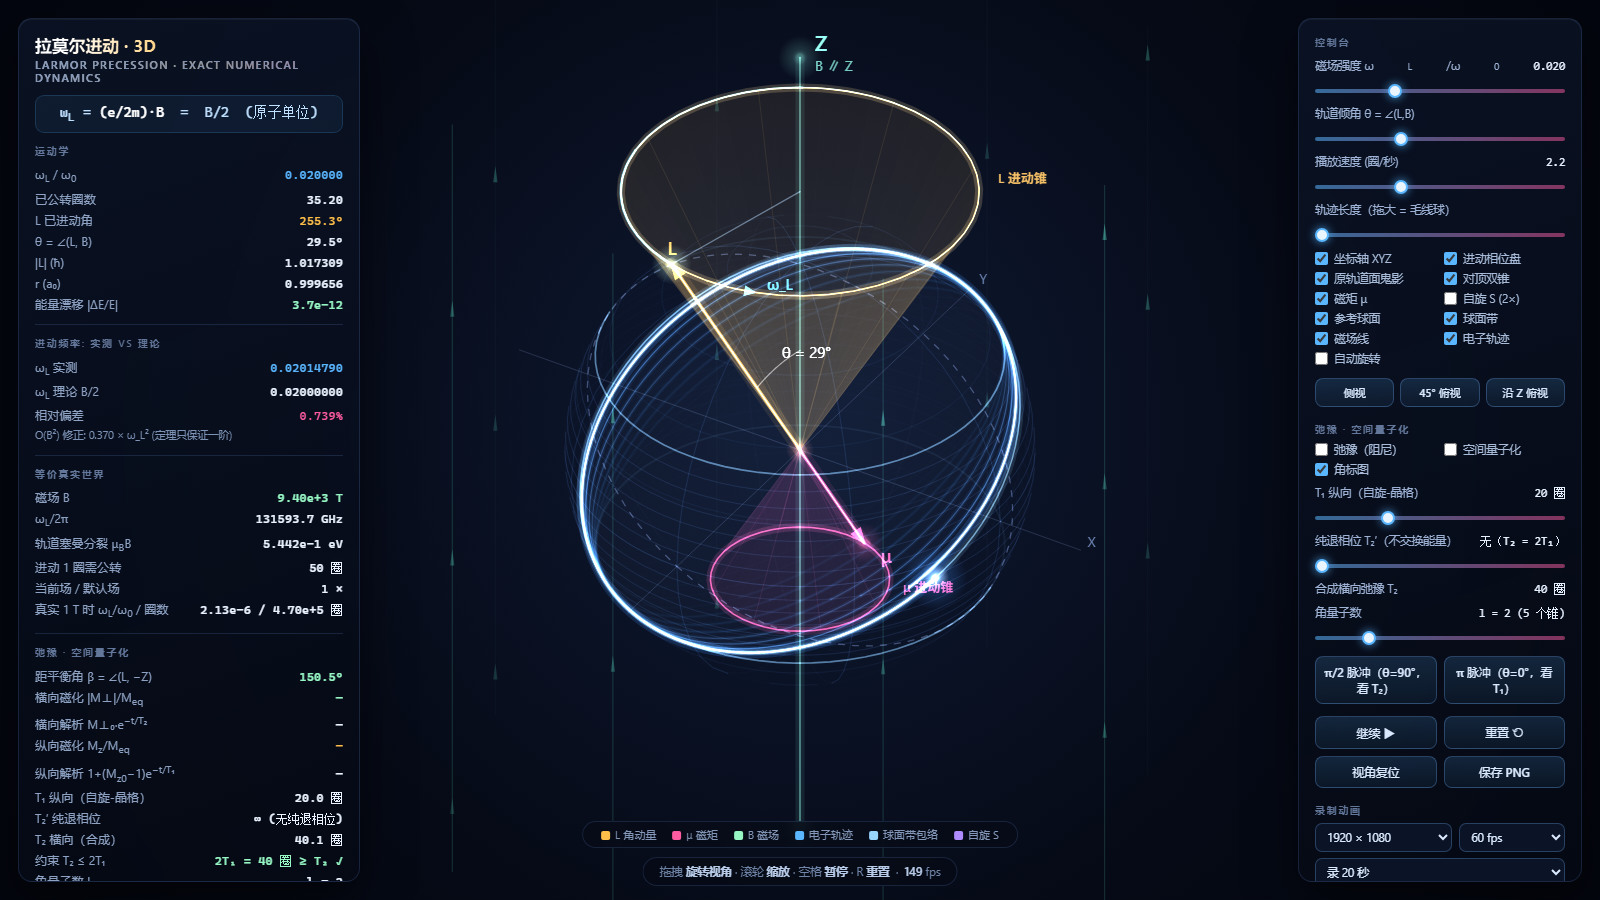
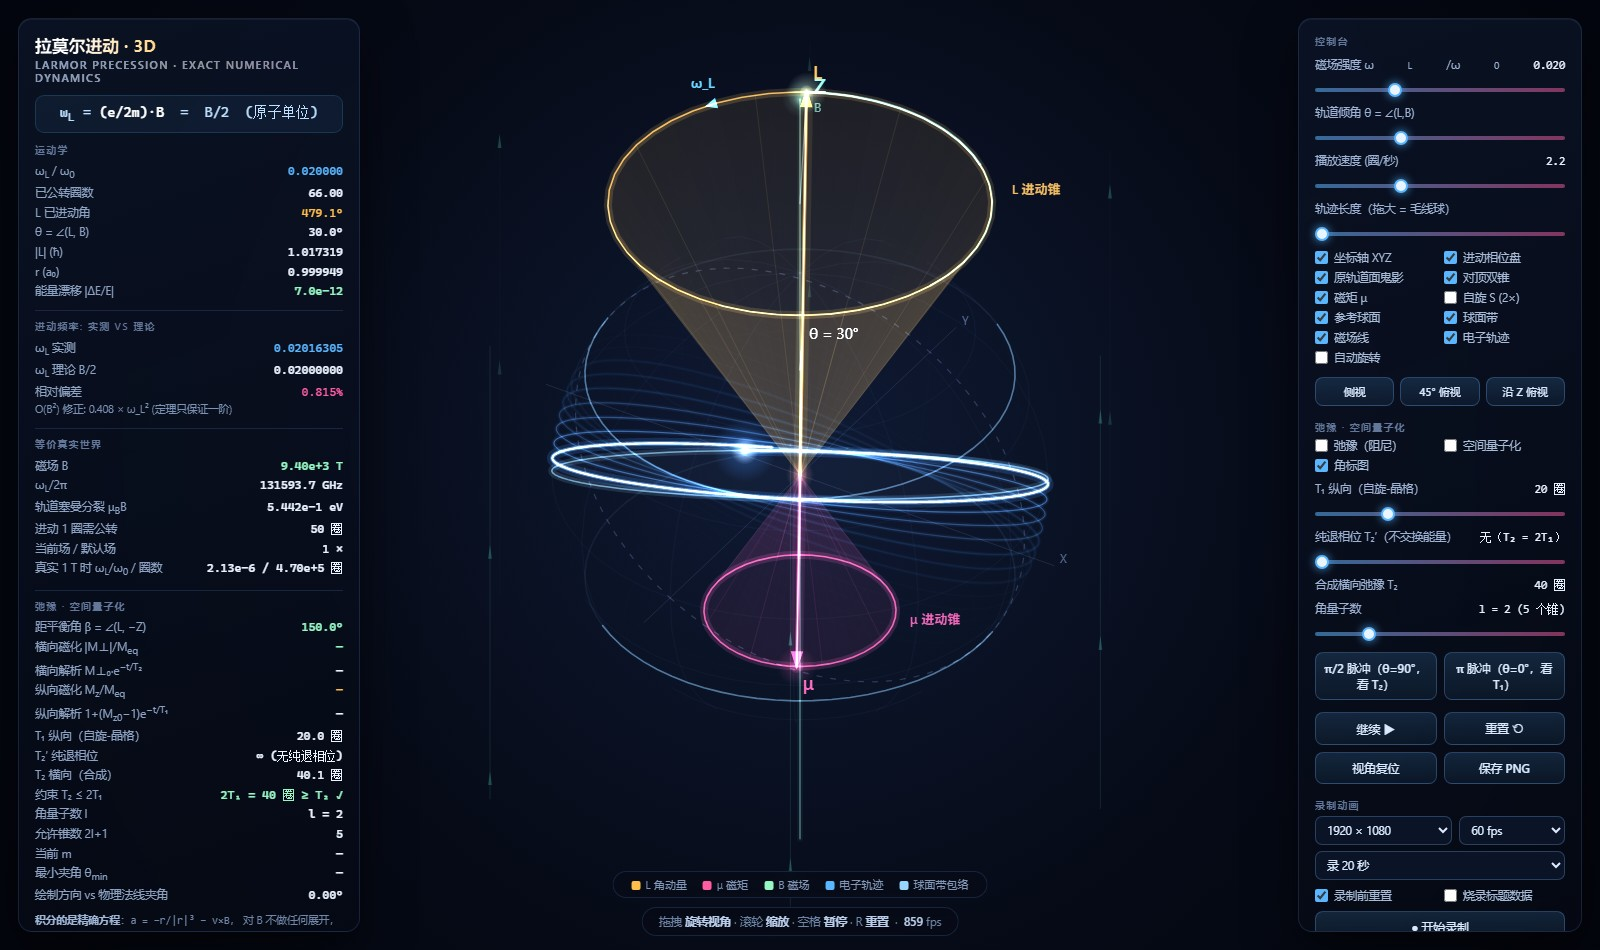
视觉减负: 去掉抢视线的重复元素
- 球面带 15 圈水平环 -> 只留上下 2 条边界环 (中间的环堆成"桶", 与轨迹抢视线)
- 平行场线收短到 ±1.12 (原来贯穿整屏、两端跑出画面像划痕), 条数 8->6, 透明度减半
- 删掉与小字 B 重复的 "B ∥ Z"
- X/Y 轴 ±1.40 -> ±1.20 并调淡
- 球面经纬线 8x9 -> 6x5, 透明度 0.105 -> 0.072
- 进动锥开启时相位盘不再画圆环 (与锥沿完全重合, 会成双环)
- ω_L 标签改沿径向外推 (原沿切向会撞上 Z 标签)
- 单个角标图移到 Z 轴左侧, 烧录模式下整体下移避开标题
- 图例只显示当前开启的图层
- HUD 行距/字号收紧
- 底栏数据项间距调整, ω_L 标签加下边界钳制

diff --git a/larmor-precession/app.js b/larmor-precession/app.js
@@ -466,59 +466,61 @@ function createApp(canvas, doc, win) {
   function drawSphereAndBand() {
     var R = 1.0, i, j, pts, ph, a;
     var grid = [];
-    /* 经线 */
-    for (j = 0; j < 8; j++) {
-      a = j * Math.PI / 4; pts = [];
-      for (i = 0; i <= 40; i++) { ph = i / 40 * TAU; pts.push([R * Math.cos(ph) * Math.cos(a), R * Math.cos(ph) * Math.sin(a), R * Math.sin(ph)]); }
+    /* 经线: 6 条足够撑出球感, 再多就只是噪点 */
+    for (j = 0; j < 6; j++) {
+      a = j * Math.PI / 6; pts = [];
+      for (i = 0; i <= 36; i++) { ph = i / 36 * TAU; pts.push([R * Math.cos(ph) * Math.cos(a), R * Math.cos(ph) * Math.sin(a), R * Math.sin(ph)]); }
       grid.push(projectPoly(pts));
     }
-    /* 纬线 */
-    for (j = -4; j <= 4; j++) {
-      var th = j * Math.PI / 10, rr = R * Math.cos(th), zz = R * Math.sin(th); pts = [];
-      for (i = 0; i <= 56; i++) { ph = i / 56 * TAU; pts.push([rr * Math.cos(ph), rr * Math.sin(ph), zz]); }
+    /* 纬线: 5 条 (含赤道), 间距 22.5° */
+    for (j = -2; j <= 2; j++) {
+      var th = j * Math.PI / 8, rr = R * Math.cos(th), zz = R * Math.sin(th); pts = [];
+      for (i = 0; i <= 48; i++) { ph = i / 48 * TAU; pts.push([rr * Math.cos(ph), rr * Math.sin(ph), zz]); }
       grid.push(projectPoly(pts));
     }
-    strokeBatch(grid, COL.sphere, 0.105, 1);
+    strokeBatch(grid, COL.sphere, 0.072, 1);
 
     /* 球面带: 电子轨迹的极角包络 [90-theta, 90+theta]。theta 必须用当前倾角,
-     * 否则弛豫时带子不跟着变。 */
+     * 否则弛豫时带子不跟着变。
+     * 只画上下两条边界环 —— 中间那 15 圈水平环会堆成一个"桶", 和轨迹抢视线,
+     * 而带子的信息量本来就在边界上。 */
     if (ui.band) {
       var thB = (S.thetaNow === undefined) ? S.theta : S.thetaNow;
       var th1 = Math.PI / 2 - thB, th2 = Math.PI / 2 + thB;
-      var rings = [], edges = [], k;
-      for (k = 0; k <= 14; k++) {
-        var tt = th1 + (th2 - th1) * k / 14;
+      var edges = [], k;
+      for (k = 0; k < 2; k++) {
+        var tt = k ? th2 : th1;
         var rr2 = R * Math.sin(tt), zz2 = R * Math.cos(tt);
         pts = [];
         for (i = 0; i <= 72; i++) { ph = i / 72 * TAU; pts.push([rr2 * Math.cos(ph), rr2 * Math.sin(ph), zz2]); }
-        (k === 0 || k === 14 ? edges : rings).push(projectPoly(pts));
+        edges.push(projectPoly(pts));
       }
-      strokeBatch(rings, COL.band, 0.155, 1);
-      strokeBatch(edges, COL.edge, 0.62, 1.7);
+      strokeBatch(edges, COL.edge, 0.58, 1.6);
     }
   }
 
   function drawField() {
     if (!ui.field) return;
-    strokeBatch([projectPoly([[0, 0, -2.0], [0, 0, 2.05]])], COL.axis, 0.55, 1.6);
-    strokeBatch([projectPoly([[0, 0, -2.0], [0, 0, 2.05]])], COL.axis, 0.10, 9);
-    /* 平行场线 + 漂移箭头 */
-    var nf = 8, i, k, lines = [], chev = [[], [], []];
+    /* Z 轴 (= B 方向): 唯一的竖直参考线, 收短到球外一点, 不再贯穿整屏 */
+    strokeBatch([projectPoly([[0, 0, -1.80], [0, 0, 1.86]])], COL.axis, 0.48, 1.5);
+    strokeBatch([projectPoly([[0, 0, -1.80], [0, 0, 1.86]])], COL.axis, 0.045, 6);
+    /* 平行场线: 只出现在球附近 (±1.3), 不跑出画面变成"划痕" */
+    var nf = 6, i, k, lines = [], chev = [[], [], []];
     for (k = 0; k < nf; k++) {
-      var a = k / nf * TAU, R = 1.52;
+      var a = k / nf * TAU, R = 1.42;
       var x = R * Math.cos(a), y = R * Math.sin(a);
-      lines.push(projectPoly([[x, y, -1.95], [x, y, 1.95]]));
-      for (i = 0; i < 3; i++) {
-        var zz = ((S.t * 0.28 + i * 0.333 + k * 0.03) % 1) * 3.9 - 1.95;
-        var p0 = project([x, y, zz]), p1 = project([x, y, zz + 0.085]);
+      lines.push(projectPoly([[x, y, -1.12], [x, y, 1.12]]));
+      for (i = 0; i < 2; i++) {
+        var zz = ((S.t * 0.16 + i * 0.5 + k * 0.045) % 1) * 2.24 - 1.12;
+        var p0 = project([x, y, zz]), p1 = project([x, y, zz + 0.07]);
         if (!p0.vis || !p1.vis) continue;
         var dx = p1.x - p0.x, dy = p1.y - p0.y, L = Math.hypot(dx, dy) || 1; dx /= L; dy /= L;
-        var s = 3.4;
+        var s = 3.0;
         var b = clamp(Math.floor((view.dist + 1.6 - p0.z) / 1.4), 0, 2);
         chev[b].push([p1.x, p1.y, p0.x - dy * s * 0.62, p0.y + dx * s * 0.62, p0.x + dy * s * 0.62, p0.y - dx * s * 0.62]);
       }
     }
-    strokeBatch(lines, COL.field, 0.20, 1);
+    strokeBatch(lines, COL.field, 0.115, 1);
     for (i = 0; i < 3; i++) {           /* 箭头按深度分 3 档批量填充 */
       if (!chev[i].length) continue;
       ctx.beginPath();
@@ -526,22 +528,22 @@ function createApp(canvas, doc, win) {
         var c = chev[i][k];
         ctx.moveTo(c[0], c[1]); ctx.lineTo(c[2], c[3]); ctx.lineTo(c[4], c[5]); ctx.closePath();
       }
-      ctx.fillStyle = rgba(COL.field, 0.14 + 0.09 * i); ctx.fill();
+      ctx.fillStyle = rgba(COL.field, 0.13 + 0.08 * i); ctx.fill();
     }
-    /* B 轴箭头 + 标签 (显式标出这就是 Z 轴) */
-    var pt = project([0, 0, 2.05]);
+    /* Z 轴标签 (显式标出这就是 B 的方向; 不再重复写 "B ∥ Z") */
+    var pt = project([0, 0, 1.86]);
     if (pt.vis) {
-      sprite(pt.x, pt.y, 22, COL.axis, 0.42);
-      text('Z', pt.x + 15, pt.y - 12, 21, rgba(COL.axis, 0.98), 'left', true);
-      text('B \u2225 Z', pt.x + 15, pt.y + 10, 14, rgba(COL.axis, 0.75), 'left', false);
+      sprite(pt.x, pt.y, 18, COL.axis, 0.38);
+      text('Z', pt.x + 14, pt.y - 12, 20, rgba(COL.axis, 0.96), 'left', true);
+      text('B', pt.x + 14, pt.y + 9, 13, rgba(COL.axis, 0.62), 'left', false);
     }
     /* 坐标轴 X / Y (赤道面内), 给"绕 Z 转"一个绝对参考 */
     if (ui.axes) {
-      var LA = 1.40, k2, ax = [[[-LA, 0, 0], [LA, 0, 0], 'X'], [[0, -LA, 0], [0, LA, 0], 'Y']];
+      var LA = 1.20, k2, ax = [[[-LA, 0, 0], [LA, 0, 0], 'X'], [[0, -LA, 0], [0, LA, 0], 'Y']];
       for (k2 = 0; k2 < 2; k2++) {
-        polyAll(ax[k2], COL.xyz, 0.22, 1);
+        polyAll(ax[k2], COL.xyz, 0.15, 1);
         var q = project(ax[k2][1]);
-        if (q.vis) text(ax[k2][2], q.x + 7, q.y - 7, 14, rgba(COL.xyz, 0.78), 'left', false);
+        if (q.vis) text(ax[k2][2], q.x + 6, q.y - 6, 12, rgba(COL.xyz, 0.62), 'left', false);
       }
     }
   }
@@ -599,8 +601,8 @@ function createApp(canvas, doc, win) {
     var b = basis(S.L0), u = b[1], w = b[2];
     var R = S.rmag, pts = [], i, a2;
     for (i = 0; i <= 72; i++) { a2 = i / 72 * TAU; pts.push(V.add(V.mul(u, R * Math.cos(a2)), V.mul(w, R * Math.sin(a2)))); }
-    if (ctx.setLineDash) ctx.setLineDash([6, 8]);
-    polyAll(pts, COL.ghost, 0.40, 1.3);
+    if (ctx.setLineDash) ctx.setLineDash([5, 9]);
+    polyAll(pts, COL.ghost, 0.26, 1.2);
     if (ctx.setLineDash) ctx.setLineDash([]);
   }
 
@@ -613,10 +615,13 @@ function createApp(canvas, doc, win) {
     if (rL < 0.02) return;
     var i, N = 96, pts = [], ph;
 
-    /* L 矢端的水平轨迹圆 (= 进动锥的边沿) */
-    for (i = 0; i <= N; i++) { ph = i / N * TAU; pts.push([rL * Math.cos(ph), rL * Math.sin(ph), zL]); }
-    polyAll(pts, COL.dial, 0.34, 1.2);
-    polyAll(pts, COL.dial, 0.055, 8);
+    /* L 矢端的水平轨迹圆 (= 进动锥的边沿)。
+     * 进动锥开着时这条圆和锥沿**完全重合**, 画两条就成双环 → 交给锥去画。 */
+    if (!ui.cone) {
+      for (i = 0; i <= N; i++) { ph = i / N * TAU; pts.push([rL * Math.cos(ph), rL * Math.sin(ph), zL]); }
+      polyAll(pts, COL.dial, 0.30, 1.2);
+      if (S.showGlow) polyAll(pts, COL.dial, 0.05, 8);
+    }
 
     /* 残影弧: 从当前相位往回 1.5π, 分 4 段渐隐 —— 直接读出转向和快慢 */
     var ph0 = Math.atan2(a[1], a[0]), seg, K = 14;
@@ -658,7 +663,12 @@ function createApp(canvas, doc, win) {
       ctx.lineTo(pA.x - dx * 3 - dy * 5.5, pA.y - dy * 3 + dx * 5.5);
       ctx.lineTo(pA.x - dx * 3 + dy * 5.5, pA.y - dy * 3 - dx * 5.5);
       ctx.closePath(); ctx.fillStyle = rgba(COL.dialA, 0.95); ctx.fill();
-      text('\u03c9_L', pA.x + dx * 18 + 2, pA.y + dy * 18 - 8, 15, rgba(COL.dialA, 0.95), 'left', true);
+      /* 标签沿**径向向外**放, 不要沿切向 —— 切向会把它推到 Z 轴上, 和 "Z" 撞在一起 */
+      var pc = project([0, 0, zL]);
+      var rx = pc.vis ? pA.x - pc.x : 0, ry = pc.vis ? pA.y - pc.y : -1;
+      var rl = Math.hypot(rx, ry) || 1; rx /= rl; ry /= rl;
+      var lx = pA.x + rx * 26 - 6, ly2 = Math.min(pA.y + ry * 26, view.h - 116);
+      text('\u03c9_L', lx, ly2, 14, rgba(COL.dialA, 0.92), 'left', true);
     }
 
     var pt = project(tip);
@@ -769,14 +779,15 @@ function createApp(canvas, doc, win) {
   function drawInsets() {
     var s = Math.max(0.55, Math.min(view.w / 1500, view.h / 900));
     var both = (S.relax && S.quant && ui.relaxPanel && ui.quantPanel);
-    var w = 330 * s, h = 132 * s, y = 22 * s;
+    var w = 330 * s, h = 132 * s, y = (ui.burn ? 126 : 22) * s;
     if (both) {
       drawCohInset(view.cx - w - 8 * s, y, w, h);
       drawLadderInset(view.cx + 8 * s, y, w, h);
     } else if (S.relax && ui.relaxPanel) {
-      drawCohInset(view.cx - w / 2, y, w, h);
+      /* 单个角标图放 Z 轴**左边** —— 正中间会被 Z 轴穿过, 还把 "Z" 标签盖掉 */
+      drawCohInset(view.cx - 26 * s - w, y, w, h);
     } else if (S.quant && ui.quantPanel) {
-      drawLadderInset(view.cx - w / 2, y, w, h);
+      drawLadderInset(view.cx - 26 * s - w, y, w, h);
     }
   }
 
@@ -1024,14 +1035,27 @@ function createApp(canvas, doc, win) {
     });
     el['r-trail'].addEventListener('input', function () { S.trailFrac = parseFloat(el['r-trail'].value) / 100; });
 
+    /* 图例只列出**当前开启**的图层, 否则一排常驻条目本身就是噪声 */
+    function refreshLegend() {
+      var lg = doc.getElementById('legend'); if (!lg || !lg.querySelectorAll) return;
+      var map = { l: true, mu: ui.mu, B: ui.field, orbit: ui.trail, band: ui.band, spin: ui.spin };
+      var ks = lg.querySelectorAll('[data-k]'), any = 0, i2, on;
+      for (i2 = 0; i2 < ks.length; i2++) {
+        on = !!map[ks[i2].getAttribute('data-k')];
+        ks[i2].style.display = on ? '' : 'none';
+        if (on) any++;
+      }
+      lg.style.display = any ? 'flex' : 'none';
+    }
     function bindChk(id, key) {
-      el[id].addEventListener('change', function () { ui[key] = !!el[id].checked; });
+      el[id].addEventListener('change', function () { ui[key] = !!el[id].checked; refreshLegend(); });
       ui[key] = !!el[id].checked;
     }
     bindChk('c-sphere', 'sphere'); bindChk('c-band', 'band'); bindChk('c-cone', 'cone');
     bindChk('c-mu', 'mu'); bindChk('c-spin', 'spin'); bindChk('c-field', 'field');
     bindChk('c-trail', 'trail'); bindChk('c-auto', 'auto');
     bindChk('c-axes', 'axes'); bindChk('c-dial', 'dial'); bindChk('c-ghost', 'ghost');
+    refreshLegend();
     el['c-panels'].addEventListener('change', function () {
       ui.relaxPanel = ui.quantPanel = !!el['c-panels'].checked;
     });
@@ -1226,7 +1250,7 @@ function createApp(canvas, doc, win) {
     text('\u03b8 = ' + S.thetaDeg.toFixed(0) + '\u00b0', pad + 200 * s, y0, 17 * s, 'rgba(230,240,255,0.92)', 'left', false);
     text('\u5df2\u516c\u8f6c ' + (S.t / TAU).toFixed(1) + ' \u5708', pad + 310 * s, y0, 17 * s, 'rgba(230,240,255,0.92)', 'left', false);
     text('L \u5df2\u8fdb\u52a8 ' + (Math.abs(S.phiAcc) / DEG).toFixed(0) + '\u00b0', pad + 480 * s, y0, 17 * s, 'rgba(255,190,74,0.96)', 'left', true);
-    text('B = ' + Breal.toExponential(2) + ' T', pad + 680 * s, y0, 17 * s, 'rgba(150,246,196,0.96)', 'left', true);
+    text('B = ' + Breal.toExponential(2) + ' T', pad + 726 * s, y0, 17 * s, 'rgba(150,246,196,0.96)', 'left', true);
     text('\u771f\u5b9e 1 T \u65f6 \u03c9_L/\u03c9\u2080 = 2.1\u00d710\u207b\u2076\uff0c\u8fdb\u52a8 1 \u5708\u9700\u516c\u8f6c 4.7\u00d710\u2075 \u5708 \u2014\u2014 \u6f14\u793a\u4e3a\u53ef\u89c6\u5316\u5df2\u653e\u5927\u78c1\u573a',
          pad, h - 42 * s, 14 * s, 'rgba(150,172,204,0.85)', 'left', false);
 

diff --git a/larmor-precession/index.html b/larmor-precession/index.html
@@ -46,13 +46,13 @@
     font-size:13.5px;color:#bfe0ff;letter-spacing:.2px;text-align:center;
   }
   .formula b{color:#fff;font-weight:600}
-  .sec{margin:11px 0 6px;font-size:10px;letter-spacing:1.7px;color:#63779a;
+  .sec{margin:9px 0 4px;font-size:9.6px;letter-spacing:1.6px;color:#63779a;
     text-transform:uppercase;font-weight:600}
   .row{display:flex;justify-content:space-between;align-items:baseline;
-    padding:2.5px 0;font-size:12.2px;gap:10px}
+    padding:1.8px 0;font-size:11.6px;gap:10px}
   .row .k{color:#8ea3c4;white-space:nowrap}
   .row .v{font-family:ui-monospace,"Cascadia Mono",Consolas,monospace;
-    font-size:12.4px;color:#eaf3ff;font-weight:500;text-align:right;
+    font-size:11.8px;color:#eaf3ff;font-weight:500;text-align:right;
     font-variant-numeric:tabular-nums}
   .v.hot{color:var(--amber)} .v.cy{color:var(--cyan)} .v.mg{color:var(--magenta)}
   .v.mi{color:var(--mint)} .v.vi{color:var(--violet)}
@@ -276,12 +276,12 @@
 </div>
 
 <div id="legend">
-  <span><i style="background:#ffbe4a"></i>L 角动量</span>
-  <span><i style="background:#ff5ca2"></i>μ 磁矩</span>
-  <span><i style="background:#96f6c4"></i>B 磁场</span>
-  <span><i style="background:#5ab6ff"></i>电子轨迹</span>
-  <span><i style="background:#96d6ff"></i>球面带包络</span>
-  <span><i style="background:#b08aff"></i>自旋 S</span>
+  <span data-k="l"><i style="background:#ffbe4a"></i>L 角动量</span>
+  <span data-k="mu"><i style="background:#ff5ca2"></i>μ 磁矩</span>
+  <span data-k="B"><i style="background:#96f6c4"></i>B 磁场</span>
+  <span data-k="orbit"><i style="background:#5ab6ff"></i>电子轨迹</span>
+  <span data-k="band"><i style="background:#96d6ff"></i>球面带包络</span>
+  <span data-k="spin"><i style="background:#b08aff"></i>自旋 S</span>
 </div>
 <div id="hint">拖拽 <b>旋转视角</b> · 滚轮 <b>缩放</b> · 空格 <b>暂停</b> · R <b>重置</b> &nbsp;·&nbsp; <b id="v-fps">–</b> fps</div>
 
